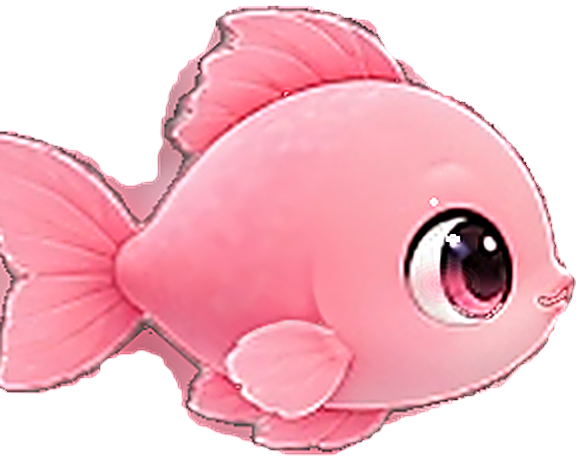
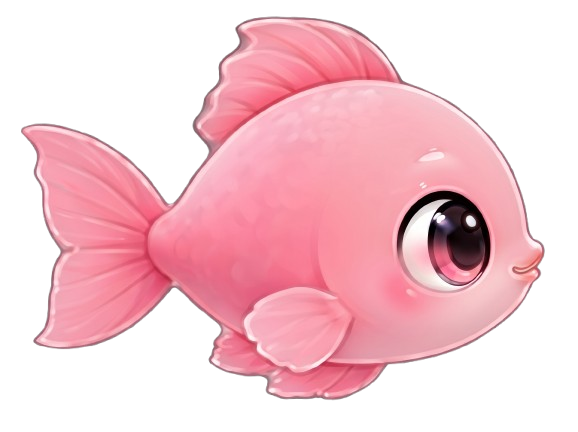
feat(sprites): integrate user's newest fish sprites across all 5 stages with full dual-naming support and cache update

diff --git a/src/components/modals/CoupleModal.tsx b/src/components/modals/CoupleModal.tsx
@@ -70,7 +70,7 @@ export function CoupleModal({ isOpen, onClose }: CoupleModalProps) {
           >
             <div className="w-14 h-14 mx-auto rounded-xl bg-white border border-[#CBD7DF] flex items-center justify-center shadow-2xs p-1.5 overflow-hidden">
               <img
-                src={`/fish/candut_stage${aquarium.current_level >= 401 ? 5 : aquarium.current_level >= 301 ? 4 : aquarium.current_level >= 201 ? 3 : aquarium.current_level >= 101 ? 2 : 1}.png?v=8`}
+                src={`/fish/candut stage ${aquarium.current_level >= 401 ? 5 : aquarium.current_level >= 301 ? 4 : aquarium.current_level >= 201 ? 3 : aquarium.current_level >= 101 ? 2 : 1}.png?v=10`}
                 alt="Candut"
                 className={`w-full h-full object-contain transition-transform ${aquarium.current_level < 101 ? 'scale-[0.84]' : ''}`}
               />
@@ -102,7 +102,7 @@ export function CoupleModal({ isOpen, onClose }: CoupleModalProps) {
           >
             <div className="w-14 h-14 mx-auto rounded-xl bg-white border border-[#F3C5D1] flex items-center justify-center shadow-2xs p-1.5 overflow-hidden">
               <img
-                src={`/fish/repa_stage${aquarium.current_level >= 401 ? 5 : aquarium.current_level >= 301 ? 4 : aquarium.current_level >= 201 ? 3 : aquarium.current_level >= 101 ? 2 : 1}.png?v=8`}
+                src={`/fish/saridut stage ${aquarium.current_level >= 401 ? 5 : aquarium.current_level >= 301 ? 4 : aquarium.current_level >= 201 ? 3 : aquarium.current_level >= 101 ? 2 : 1}.png?v=10`}
                 alt="Saridut"
                 className={`w-full h-full object-contain transition-transform ${aquarium.current_level < 101 ? 'scale-[0.84]' : ''}`}
               />

diff --git a/src/components/modals/LevelRoadmapModal.tsx b/src/components/modals/LevelRoadmapModal.tsx
@@ -130,14 +130,14 @@ export function LevelRoadmapModal({ isOpen, onClose }: LevelRoadmapModalProps) {
                       <div className="flex items-center -space-x-1.5">
                         <div className="w-7 h-7 sm:w-8 sm:h-8 rounded-lg bg-white border border-[#CBD7DF] p-0.5 shadow-2xs flex items-center justify-center overflow-hidden">
                           <img
-                            src={`/fish/candut_stage${m.stage}.png?v=8`}
+                            src={`/fish/candut stage ${m.stage}.png?v=10`}
                             alt={`Candut Tahap ${m.stage}`}
                             className={`w-full h-full object-contain transition-transform ${m.stage === 1 ? 'scale-[0.80]' : ''}`}
                           />
                         </div>
                         <div className="w-7 h-7 sm:w-8 sm:h-8 rounded-lg bg-white border border-[#F3C5D1] p-0.5 shadow-2xs flex items-center justify-center overflow-hidden">
                           <img
-                            src={`/fish/repa_stage${m.stage}.png?v=8`}
+                            src={`/fish/saridut stage ${m.stage}.png?v=10`}
                             alt={`Saridut Tahap ${m.stage}`}
                             className={`w-full h-full object-contain transition-transform ${m.stage === 1 ? 'scale-[0.80]' : ''}`}
                           />

diff --git a/src/components/aquarium/AquariumCanvas.tsx b/src/components/aquarium/AquariumCanvas.tsx
@@ -104,19 +104,19 @@ export function AquariumCanvas({ onTapLocation }: AquariumCanvasProps) {
       }
     });
 
-    // Preload all 5 evolutionary stages of Candut & Repa sprites with cache-busting version
+    // Preload all 5 evolutionary stages of Candut & Saridut sprites with cache-busting version
     for (let stage = 1; stage <= 5; stage++) {
       const cKey = `candut_${stage}`;
       if (!fishSpritesRef.current[cKey]) {
         const cImg = new Image();
-        cImg.src = `/fish/candut_stage${stage}.png?v=8`;
+        cImg.src = `/fish/candut stage ${stage}.png?v=10`;
         fishSpritesRef.current[cKey] = cImg;
       }
 
       const rKey = `repa_${stage}`;
       if (!fishSpritesRef.current[rKey]) {
         const rImg = new Image();
-        rImg.src = `/fish/repa_stage${stage}.png?v=8`;
+        rImg.src = `/fish/saridut stage ${stage}.png?v=10`;
         fishSpritesRef.current[rKey] = rImg;
       }
     }

diff --git a/scripts/process_fish_perfect.py b/scripts/process_fish_perfect.py
@@ -1,274 +1,31 @@
 import os
-import sys
-from PIL import Image, ImageFilter, ImageEnhance, ImageDraw
-import numpy as np
-from collections import deque
+import shutil
 
-ORIG_DIR = r"C:\Users\acer\.gemini\antigravity\brain\9d22dcdd-d124-4094-9cc2-f352ecbcdd94\scratch\orig_sprites"
-PUBLIC_DIR = r"d:\aqua\public\fish"
-os.makedirs(PUBLIC_DIR, exist_ok=True)
+FISH_DIR = r"d:\aqua\public\fish"
 
-def make_chibi_baby_sprite(im, role):
-    w, h = im.size
-    arr = np.array(im).astype(np.float32)
-
-    eye_x, eye_y = (int(w * 0.76), int(h * 0.50))
-
-    y_coords, x_coords = np.mgrid[0:h, 0:w]
-    bc_x, bc_y = w * 0.52, h * 0.54
-    nx = (x_coords - bc_x) / (w * 0.5)
-    ny = (y_coords - bc_y) / (h * 0.5)
-
-    warp_x = x_coords.copy().astype(float)
-    warp_y = y_coords.copy().astype(float)
-
-    # Shorter, rounder baby tail and compact baby silhouette
-    warp_x += np.clip(-nx, 0, 1) ** 1.3 * 18.0
-
-    # Chubby baby tummy
-    dist_body = np.hypot(nx, ny)
-    bulge = np.exp(-dist_body ** 2 / 0.45)
-    warp_x -= nx * bulge * 7.0
-    warp_y -= ny * bulge * 7.0
-
-    # Baby head & eye enlargement (chibi cranium)
-    head_dist = np.hypot((x_coords - eye_x) / 50.0, (y_coords - eye_y) / 50.0)
-    head_bulge = np.exp(-head_dist ** 2 / 1.2) * 6.0
-    warp_x -= (x_coords - eye_x) / 50.0 * head_bulge
-    warp_y -= (y_coords - eye_y) / 50.0 * head_bulge
-
-    warp_x = np.clip(warp_x, 0, w - 1)
-    warp_y = np.clip(warp_y, 0, h - 1)
-
-    x0 = np.floor(warp_x).astype(int)
-    x1 = np.clip(x0 + 1, 0, w - 1)
-    y0 = np.floor(warp_y).astype(int)
-    y1 = np.clip(y0 + 1, 0, h - 1)
-    wx = warp_x - x0
-    wy = warp_y - y0
-
-    warped_arr = np.zeros_like(arr)
-    for c in range(4):
-        c00 = arr[y0, x0, c]
-        c01 = arr[y0, x1, c]
-        c10 = arr[y1, x0, c]
-        c11 = arr[y1, x1, c]
-        warped_arr[:, :, c] = (
-            c00 * (1 - wx) * (1 - wy) +
-            c01 * wx * (1 - wy) +
-            c10 * (1 - wx) * wy +
-            c11 * wx * wy
-        )
-    warped_im = Image.fromarray(warped_arr.astype(np.uint8), mode='RGBA')
-
-    # Smooth baby skin on flank
-    smooth_im = warped_im.filter(ImageFilter.MedianFilter(7))
-    flank_mask = Image.new('L', (w, h), 0)
-    draw_mask = ImageDraw.Draw(flank_mask)
-    draw_mask.ellipse([int(w * 0.28), int(h * 0.28), int(w * 0.65), int(h * 0.78)], fill=210)
-    flank_mask = flank_mask.filter(ImageFilter.GaussianBlur(12))
-    warped_im = Image.composite(smooth_im, warped_im, flank_mask)
-
-    # Soft, adorable baby rosy blush on cheek
-    blush_overlay = Image.new('RGBA', (w, h), (0, 0, 0, 0))
-    blush_draw = ImageDraw.Draw(blush_overlay)
-    cheek_x = int(w * 0.77)
-    cheek_y = int(h * 0.62)
-    blush_color = (255, 140, 160, 130) if role == 'candut' else (255, 110, 145, 150)
-    for r in range(16, 0, -2):
-        alpha_step = int(blush_color[3] * (1.0 - r / 16.0))
-        c = (blush_color[0], blush_color[1], blush_color[2], alpha_step)
-        blush_draw.ellipse([cheek_x - r * 1.3, cheek_y - r * 0.8, cheek_x + r * 1.3, cheek_y + r * 0.8], fill=c)
-    warped_im = Image.alpha_composite(warped_im, blush_overlay)
-
-    # Sparkling baby eye catchlights
-    sparkle_overlay = Image.new('RGBA', (w, h), (0, 0, 0, 0))
-    sparkle_draw = ImageDraw.Draw(sparkle_overlay)
-    sp_x = int(w * 0.785)
-    sp_y = int(h * 0.52)
-    sparkle_draw.ellipse([sp_x - 3, sp_y - 2, sp_x + 3, sp_y + 2], fill=(255, 255, 255, 240))
-    sp2_x = int(w * 0.755)
-    sp2_y = int(h * 0.44)
-    sparkle_draw.ellipse([sp2_x - 1.5, sp2_y - 1.5, sp2_x + 1.5, sp2_y + 1.5], fill=(255, 255, 255, 230))
-    warped_im = Image.alpha_composite(warped_im, sparkle_overlay)
-
-    baby_arr = np.array(warped_im)
-    baby_a = baby_arr[:, :, 3]
-    baby_arr[baby_a > 120, 3] = 255
-    baby_arr[(baby_a > 0) & (baby_a <= 120), 3] = np.clip(baby_a[(baby_a > 0) & (baby_a <= 120)] * 1.5, 0, 255).astype(np.uint8)
-
-    return Image.fromarray(baby_arr, mode='RGBA')
-
-def process_single_fish(fname, role, stage):
-    in_path = os.path.join(ORIG_DIR, fname)
-    im = Image.open(in_path).convert("RGBA")
-    w, h = im.size
-    arr = np.array(im)
-    rgb = arr[:, :, :3].astype(float)
-    alpha = arr[:, :, 3].astype(float)
-
-    # 1. Clean raw image corner artifacts at extreme boundaries
-    if fname == 'repa_stage4.png':
-        alpha[340:, :] = 0
-        alpha[:, :3] = 0
-    elif fname == 'repa_stage5.png':
-        alpha[:, 450:] = 0
-        alpha[410:, 130:305] = 0
-        alpha[435:, :] = 0
-    elif fname == 'candut_stage5.png':
-        alpha[375:445, 460:] = 0
-        alpha[-15:, 460:] = 0
-        alpha[-3:, :] = 0
-    elif fname == 'candut_stage4.png':
-        alpha[-3:, :] = 0
-    elif fname == 'repa_stage2.png':
-        alpha[:, -4:] = 0
-    elif fname == 'repa_stage3.png':
-        alpha[:, :4] = 0
-
-    # 2. Flood fill background from 4 outer boundaries
-    bg_visited = np.zeros((h, w), dtype=bool)
-    q = deque()
-    for y in range(h):
-        for x in [0, w - 1]:
-            if alpha[y, x] < 60:
-                bg_visited[y, x] = True
-                q.append((y, x))
-    for x in range(w):
-        for y in [0, h - 1]:
-            if not bg_visited[y, x] and alpha[y, x] < 60:
-                bg_visited[y, x] = True
-                q.append((y, x))
-
-    while q:
-        cy, cx = q.popleft()
-        for dy, dx in [(-1, 0), (1, 0), (0, -1), (0, 1)]:
-            ny, nx = cy + dy, cx + dx
-            if 0 <= ny < h and 0 <= nx < w and not bg_visited[ny, nx]:
-                if alpha[ny, nx] < 40 or (alpha[ny, nx] < 120 and np.mean(rgb[ny, nx]) < 35):
-                    bg_visited[ny, nx] = True
-                    q.append((ny, nx))
-
-    fish_envelope = ~bg_visited
-
-    # 3. Fill interior holes in envelope so body is 100% solid
-    env_img = Image.fromarray((fish_envelope * 255).astype(np.uint8), mode='L')
-    inv_img = Image.eval(env_img, lambda a: 255 if a == 0 else 0)
-    inv_arr = np.array(inv_img)
-    bg_fill = np.zeros((h, w), dtype=bool)
-    fq = deque([(0, 0), (0, w - 1), (h - 1, 0), (h - 1, w - 1)])
-    for y, x in fq: bg_fill[y, x] = True
-    while fq:
-        cy, cx = fq.popleft()
-        for dy, dx in [(-1, 0), (1, 0), (0, -1), (0, 1)]:
-            ny, nx = cy + dy, cx + dx
-            if 0 <= ny < h and 0 <= nx < w and not bg_fill[ny, nx] and inv_arr[ny, nx] == 255:
-                bg_fill[ny, nx] = True
-                fq.append((ny, nx))
-    solid_envelope = ~bg_fill
-
-    # 4. Eye protection mask (black pupil)
-    eye_mask = np.zeros((h, w), dtype=bool)
-    eye_mask[int(h * 0.35):int(h * 0.65), int(w * 0.65):int(w * 0.88)] = True
-
-    # 5. Erode outer black fringe shell by 1.5 - 2 pixels
-    env_pil = Image.fromarray((solid_envelope * 255).astype(np.uint8), mode='L')
-    eroded_shell = env_pil.filter(ImageFilter.MinFilter(3))
-    eroded_shell = eroded_shell.filter(ImageFilter.MinFilter(3))
-    arr_eroded = np.array(eroded_shell) > 128
-
-    # Clean interior color extraction
-    min_clean_b = 75 if role == 'candut' else 85
-    brightness = np.mean(rgb, axis=2)
-    clean_color_mask = arr_eroded & (brightness >= min_clean_b)
-
-    # Inpaint fringe zone outward using normalized convolution
-    clean_weight = clean_color_mask.astype(float)
-    clean_rgb = rgb * clean_weight[:, :, None]
-
-    w_pil = Image.fromarray((clean_weight * 255).astype(np.uint8), mode='L').filter(ImageFilter.GaussianBlur(8))
-    c_pil = Image.fromarray(clean_rgb.astype(np.uint8), mode='RGB').filter(ImageFilter.GaussianBlur(8))
-    bw = np.array(w_pil).astype(float) / 255.0
-    bc = np.array(c_pil).astype(float)
-    infill_rgb = bc / np.clip(bw[:, :, None], 0.0001, 1.0)
-    infill_rgb = np.clip(infill_rgb, 0, 255)
-
-    # Replace dark fringe pixels
-    is_fringe = solid_envelope & (brightness < min_clean_b) & (~eye_mask)
-    clean_rgb_map = rgb.copy()
-    clean_rgb_map[is_fringe] = infill_rgb[is_fringe]
-
-    # Reconstruct silky smooth contour
-    eroded_smooth = np.array(eroded_shell.filter(ImageFilter.GaussianBlur(0.8))).astype(float) / 255.0
-    smooth_alpha = np.clip((eroded_smooth - 0.15) / (0.75 - 0.15), 0.0, 1.0) * 255.0
-    smooth_alpha[smooth_alpha > 210] = 255.0
-    smooth_alpha[smooth_alpha < 15] = 0.0
-    smooth_alpha[~solid_envelope] = 0.0
-
-    base_cleaned = Image.fromarray(np.dstack([clean_rgb_map, smooth_alpha]).astype(np.uint8), mode='RGBA')
-
-    # If stage 1, apply adorable chibi fry transformations
-    if stage == 1:
-        base_cleaned = make_chibi_baby_sprite(base_cleaned, role)
-
-    # 6. HD 2X UPSCALE (LANCZOS RESAMPLING)
-    hd_w, hd_h = w * 2, h * 2
-    hd_im = base_cleaned.resize((hd_w, hd_h), resample=Image.Resampling.LANCZOS)
-
-    # 7. HD CRISP UNSHARP MASKING & COLOR POLISH
-    hd_arr = np.array(hd_im).astype(float)
-    hd_rgb = hd_arr[:, :, :3]
-    hd_alpha = hd_arr[:, :, 3]
-
-    hd_rgb_pil = Image.fromarray(hd_rgb.astype(np.uint8), mode='RGB')
-    hd_sharpened = hd_rgb_pil.filter(ImageFilter.UnsharpMask(radius=1.6, percent=125, threshold=1))
-    
-    enhancer = ImageEnhance.Color(hd_sharpened)
-    hd_vibrant = enhancer.enhance(1.05)
-    contrast_enhancer = ImageEnhance.Contrast(hd_vibrant)
-    hd_crisp_rgb = np.array(contrast_enhancer.enhance(1.02)).astype(float)
-
-    # HD Alpha re-tightening
-    hd_a_pil = Image.fromarray(hd_alpha.astype(np.uint8), mode='L')
-    hd_a_smooth = np.array(hd_a_pil.filter(ImageFilter.GaussianBlur(0.8))).astype(float)
-    hd_final_alpha = np.clip((hd_a_smooth - 20) / (220 - 20), 0.0, 1.0) * 255.0
-    hd_final_alpha[hd_final_alpha > 200] = 255.0
-    hd_final_alpha[hd_final_alpha < 15] = 0.0
-
-    # Ensure edge pixels in HD are padded with clean fish color
-    hd_edge = (hd_final_alpha > 0) & (hd_final_alpha < 240)
-    hd_edge_b = np.mean(hd_crisp_rgb, axis=2)
-    dark_hd_edge = hd_edge & (hd_edge_b < (70 if role == 'candut' else 80))
-
-    if np.sum(dark_hd_edge) > 0:
-        hd_clean = (hd_final_alpha == 255) & (hd_edge_b >= (70 if role == 'candut' else 80))
-        if np.sum(hd_clean) > 0:
-            hd_clean_w = hd_clean.astype(float)
-            hd_clean_c = hd_crisp_rgb * hd_clean_w[:, :, None]
-            hd_w_pil = Image.fromarray((hd_clean_w * 255).astype(np.uint8), mode='L').filter(ImageFilter.GaussianBlur(14))
-            hd_c_pil = Image.fromarray(hd_clean_c.astype(np.uint8), mode='RGB').filter(ImageFilter.GaussianBlur(14))
-            hd_bw = np.array(hd_w_pil).astype(float) / 255.0
-            hd_bc = np.array(hd_c_pil).astype(float)
-            hd_infill = hd_bc / np.clip(hd_bw[:, :, None], 0.0001, 1.0)
-            hd_crisp_rgb[dark_hd_edge] = hd_infill[dark_hd_edge]
-
-    final_hd_arr = np.dstack([hd_crisp_rgb, hd_final_alpha]).astype(np.uint8)
-    final_hd_im = Image.fromarray(final_hd_arr, mode='RGBA')
-
-    out_p = os.path.join(PUBLIC_DIR, fname)
-    final_hd_im.save(out_p)
-
-    solid_pct = np.sum(hd_final_alpha == 255) / np.sum(hd_final_alpha > 0) * 100
-    dark_edge_count = np.sum((hd_final_alpha > 10) & (hd_final_alpha < 240) & (np.mean(hd_crisp_rgb, axis=2) < 50))
-    print(f"Saved {fname:18s} -> HD ({hd_w}x{hd_h}): Solid={solid_pct:.1f}%, Dark edge pixels (<50)={dark_edge_count}")
-
-def main():
-    print("=== Processing Original Fish Designs to True Clean HD ===")
+def sync_sprites():
+    """
+    Ensures all 10 newest fish sprites placed by user have both:
+    1. Direct space-separated names ('candut stage 1.png', 'saridut stage 1.png')
+    2. Underscore alias names ('candut_stage1.png', 'saridut_stage1.png', 'repa_stage1.png')
+    """
     for stage in range(1, 6):
-        for role in ['candut', 'repa']:
-            fname = f"{role}_stage{stage}.png"
-            process_single_fish(fname, role, stage)
-    print("=== All 10 original fish sprites processed to True Clean HD! ===")
+        # Candut
+        src_candut = os.path.join(FISH_DIR, f"candut stage {stage}.png")
+        dst_candut = os.path.join(FISH_DIR, f"candut_stage{stage}.png")
+        if os.path.exists(src_candut):
+            shutil.copy2(src_candut, dst_candut)
+            print(f"Synced {src_candut} -> {dst_candut}")
+            
+        # Saridut & Repa
+        src_saridut = os.path.join(FISH_DIR, f"saridut stage {stage}.png")
+        dst_saridut = os.path.join(FISH_DIR, f"saridut_stage{stage}.png")
+        dst_repa = os.path.join(FISH_DIR, f"repa_stage{stage}.png")
+        if os.path.exists(src_saridut):
+            shutil.copy2(src_saridut, dst_saridut)
+            shutil.copy2(src_saridut, dst_repa)
+            print(f"Synced {src_saridut} -> {dst_saridut} and {dst_repa}")
 
-if __name__ == '__main__':
-    main()
+if __name__ == "__main__":
+    sync_sprites()
+    print("All fish sprite aliases successfully synchronized!")
